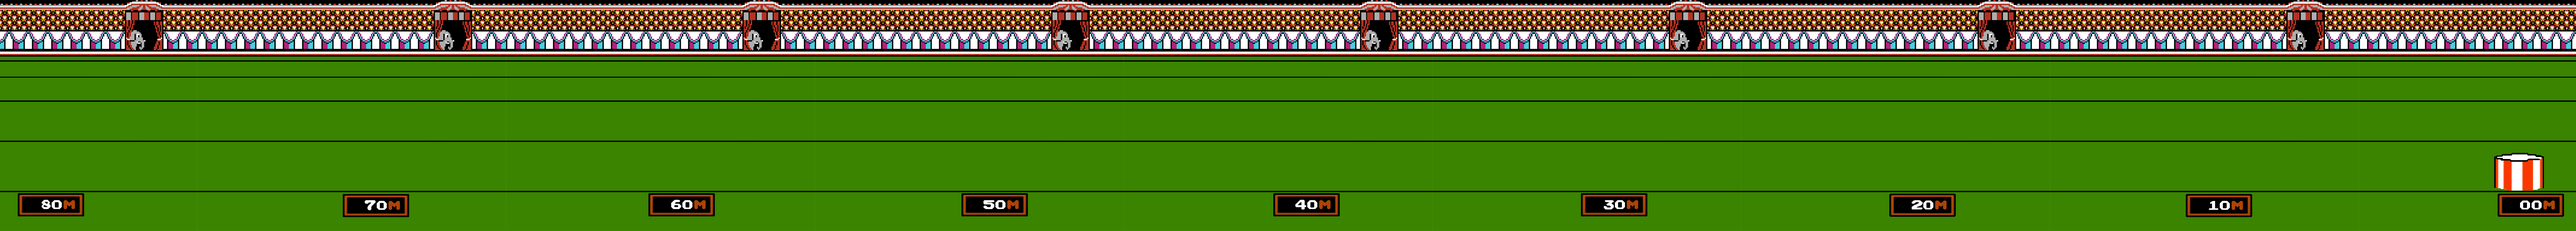
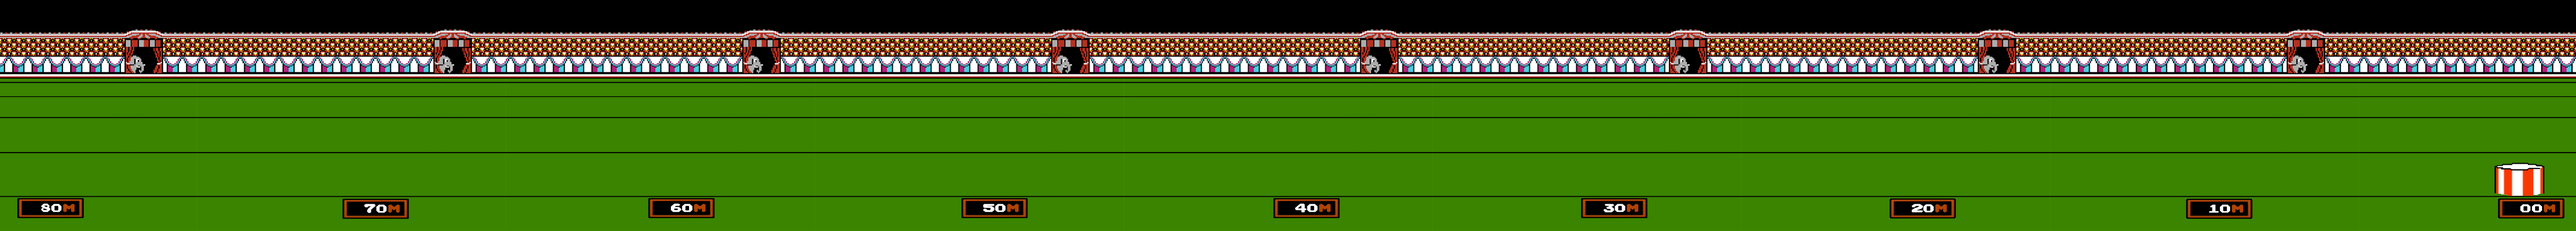
adjunto imagenes del nivel 2 y nivel 3

diff --git a/app/src/main/java/jgame/gradle/CircusCharlie/ObjetosGraficos/Obstaculos/Pelota.java b/app/src/main/java/jgame/gradle/CircusCharlie/ObjetosGraficos/Obstaculos/Pelota.java
@@ -9,11 +9,13 @@ import java.util.Objects;
 import javax.imageio.ImageIO;
 
 public class Pelota extends ObjetoGrafico{
-    public double posX = 174, idx = 0;
-    public final int posY = 430;
+    public double posX = 234, idx = 0;
+    public final int posY = 471;
     BufferedImage imagen1;
     private ArrayList<BufferedImage> imagePelota = new ArrayList<>();
     private int indiceImagenActualPelota = 0;
+    private double velocityX = 5.0;
+	private double velocityY = 0.0;
     
     public Pelota(String filename) {
         super(filename);
@@ -24,6 +26,14 @@ public class Pelota extends ObjetoGrafico{
             throw new RuntimeException("Error al cargar la imagen del caldero", e);
         }
     }
+
+    // public void left() {
+	// 	positionX -= velocityX;
+	// }
+
+	// public void right() {
+	// 	positionX += velocityX;
+	// }
 
     // Dibujar el aro en la posición especificada
     public void display(Graphics2D g) {

diff --git a/app/src/main/java/jgame/gradle/CircusCharlie/ObjetosGraficos/Niveles/Nivel3.java b/app/src/main/java/jgame/gradle/CircusCharlie/ObjetosGraficos/Niveles/Nivel3.java
@@ -36,7 +36,7 @@ public class Nivel3 {
         int numeroAleatorioPosX, cantMonosNormalesContinuos;
         int posXPixel = 174;
         Pelota primerPelota = new Pelota(imagenPelota);
-        primerPelota.setPosition(145, 430);
+        primerPelota.setPosition(185, 430);
         listaDePelotas.add(primerPelota);
     }
 
@@ -63,7 +63,7 @@ public class Nivel3 {
             }
         }
         else if(charlie.getX() < 6464 || charlie.getX()> 6586){
-            charlie.setPISO(430);
+            // charlie.setPISO(430);
         }
         
         for(Pelota pelotita : listaDePelotas){
